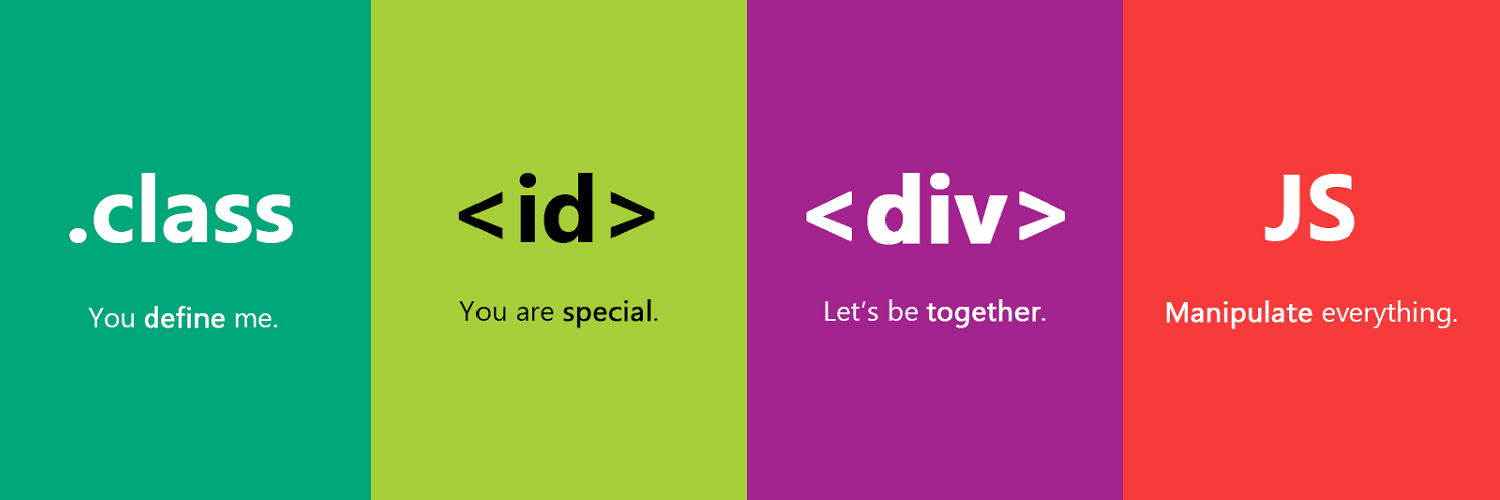
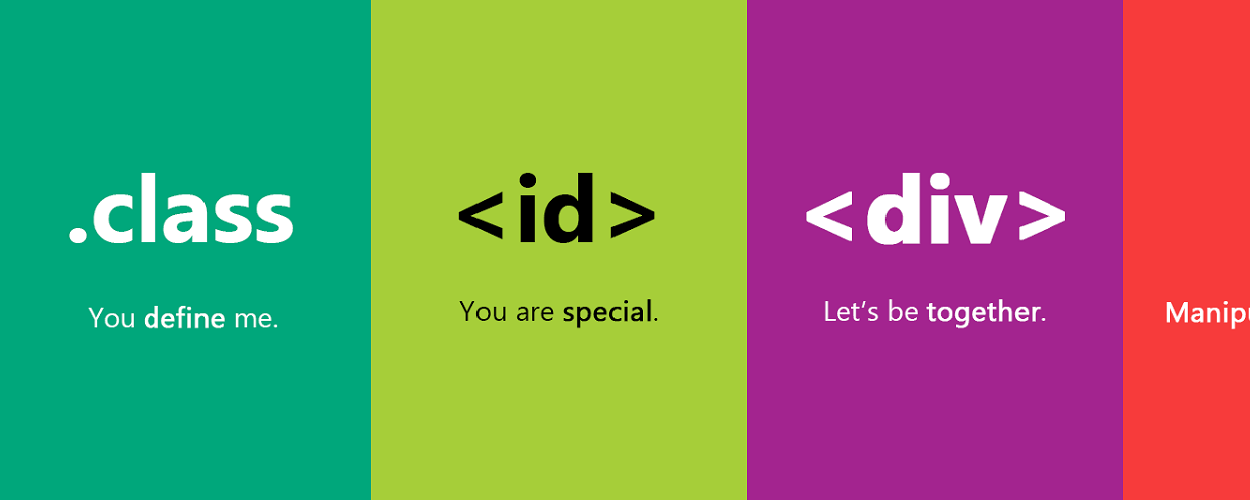
微调

diff --git a/JNUSocialNetwork/WebContent/pages/styles/home.css b/JNUSocialNetwork/WebContent/pages/styles/home.css
@@ -532,13 +532,13 @@ a:hover {
 }
 
 .info-contener {
-	width: 1300px;
+	width: 1137.5px;
 	margin: 0 auto;
 	overflow: hidden;
 }
 
 .move-ad {
-	width: 975px;
+	width: 812.5px;
 	position: relative;
 	top: 10px;
 	float: left
